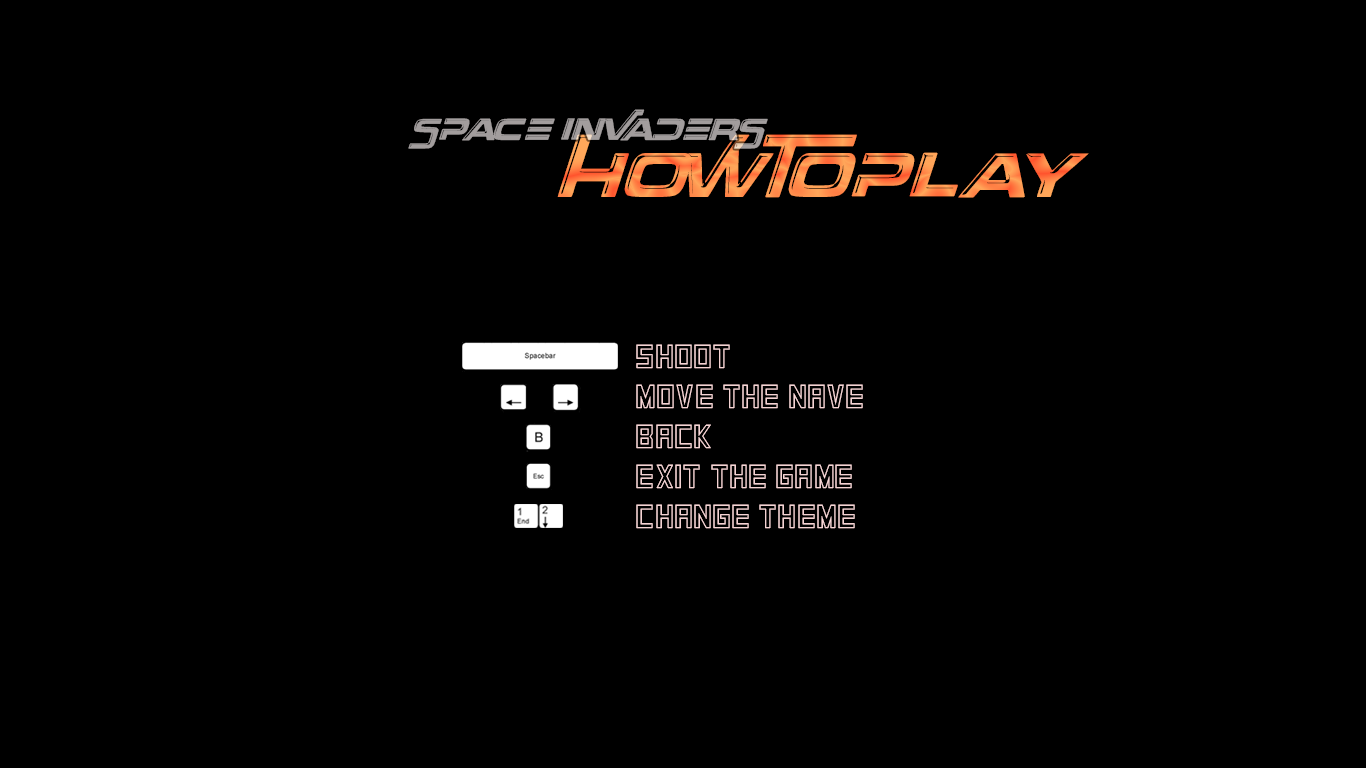
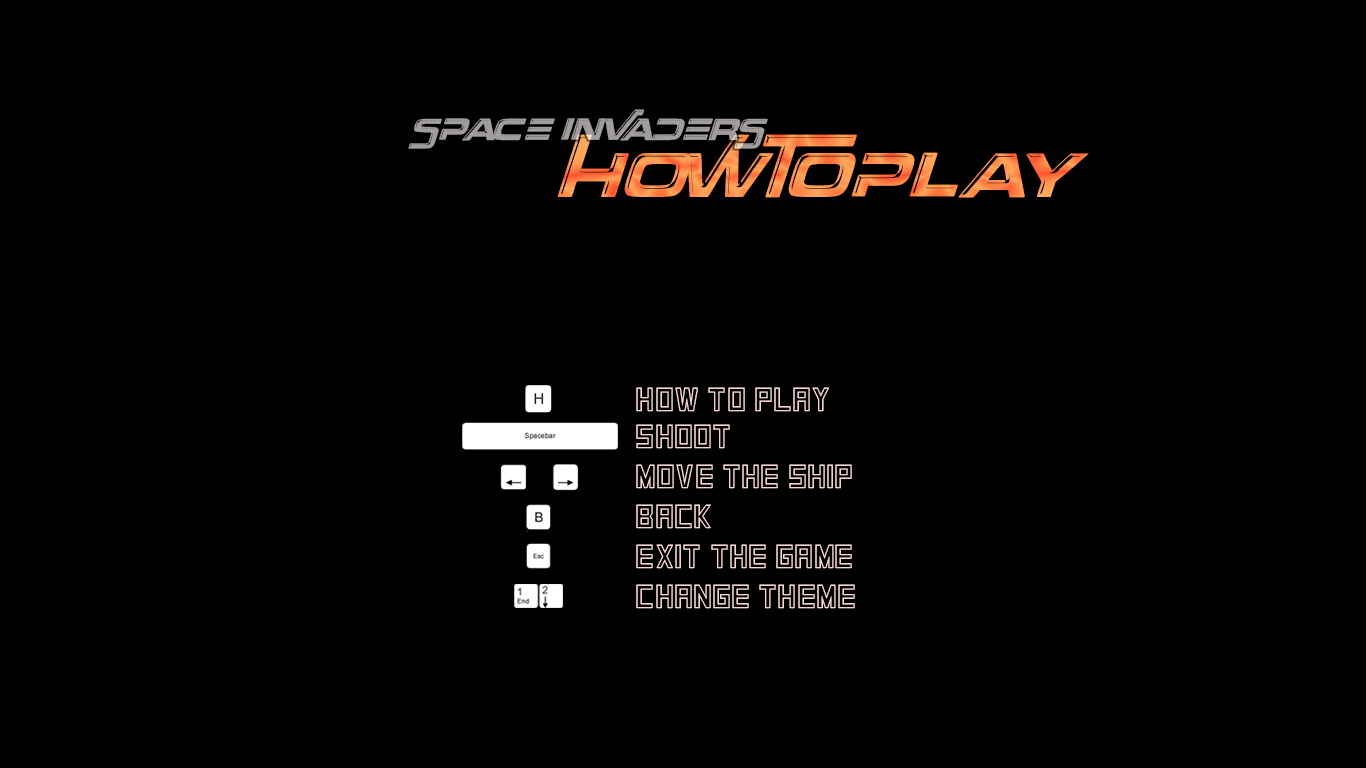
added the new howto and press enter to continue

Changed region(s): [[0.3382, 0.4375, 0.6457, 0.8125]]

diff --git a/ESI/main.cpp b/ESI/main.cpp
@@ -111,6 +111,7 @@ int draw_menu(int pos = 1) {
 }
 
 void How() {
+    fonteMenu = al_load_font("fonts/Squareo.ttf", 40, 0);
 
     int go = 0;
     ALLEGRO_EVENT_QUEUE *event_queue = al_create_event_queue();
@@ -122,6 +123,8 @@ void How() {
         al_clear_to_color(al_map_rgb(0, 0, 0));
         imagem = al_load_bitmap("images/how.png");
         al_draw_bitmap(imagem, 0, 0, 0);
+        al_draw_text(fonteMenu, al_map_rgb(50, 200, 115), X/2, Y-60, ALLEGRO_ALIGN_CENTRE, "PRESS ENTER TO CONTINUE");
+
         al_flip_display();
         al_wait_for_event(event_queue, &events);
         if (events.type == ALLEGRO_EVENT_KEY_DOWN) {
@@ -276,8 +279,7 @@ int Game() {
                     theme = 1;
                     Game();
                 }
-            }
-            else if (al_key_down(&keyState, ALLEGRO_KEY_H)) {
+            } else if (al_key_down(&keyState, ALLEGRO_KEY_H)) {
                 How();
                 Game();
             }
